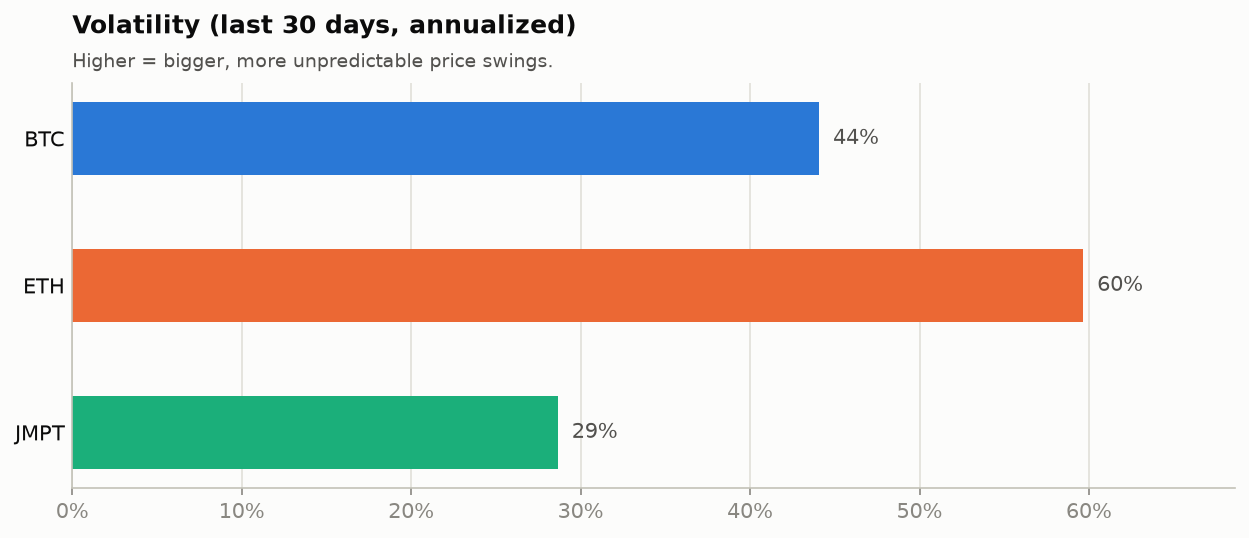
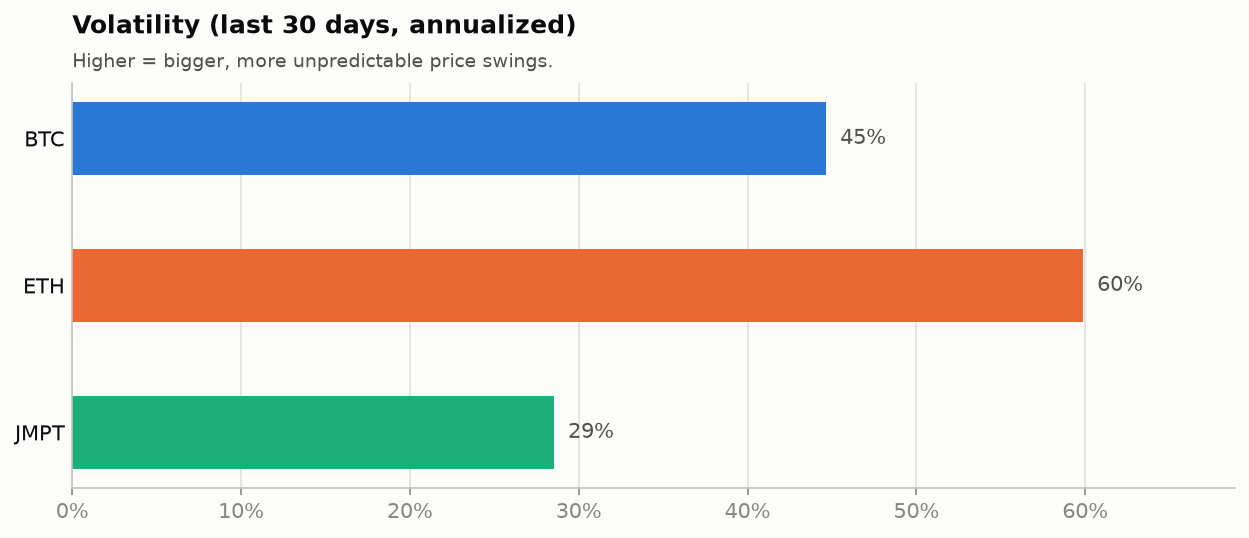
data: market update 2026-11-19

diff --git a/README.md b/README.md
@@ -9,13 +9,13 @@ The project compares two of the largest cryptocurrencies with a small-cap token:
 ## Latest stats
 
 <!-- STATS:START -->
-_Snapshot as of **2026-11-18 00:00 UTC**. Updated automatically every day._
+_Snapshot as of **2026-11-19 00:00 UTC**. Updated automatically every day._
 
 | Coin | Price | 1 day | 7 days | 30 days | 1 year | Volatility (30d) | Market cap |
 |:--|--:|--:|--:|--:|--:|--:|--:|
-| **BTC** Bitcoin | $64,889 | ▲ +0.1% | ▼ -12.0% | ▼ -20.9% | ▼ -29.5% | 44% | $1.31T |
-| **ETH** Ethereum | $1,823 | ▲ +0.2% | ▼ -11.1% | ▼ -24.3% | ▼ -39.8% | 60% | $222.82B |
-| **JMPT** JumpToken | $0.4642 | ▲ +0.5% | ▼ -7.5% | ▼ -13.2% | ▼ -42.2% | 29% | $6.85M |
+| **BTC** Bitcoin | $62,997 | ▼ -2.9% | ▼ -14.8% | ▼ -23.1% | ▼ -32.2% | 45% | $1.27T |
+| **ETH** Ethereum | $1,775 | ▼ -2.6% | ▼ -13.6% | ▼ -26.2% | ▼ -43.1% | 60% | $216.97B |
+| **JMPT** JumpToken | $0.4594 | ▼ -1.0% | ▼ -8.3% | ▼ -14.5% | ▼ -43.5% | 29% | $6.78M |
 <!-- STATS:END -->
 
 ## Charts
